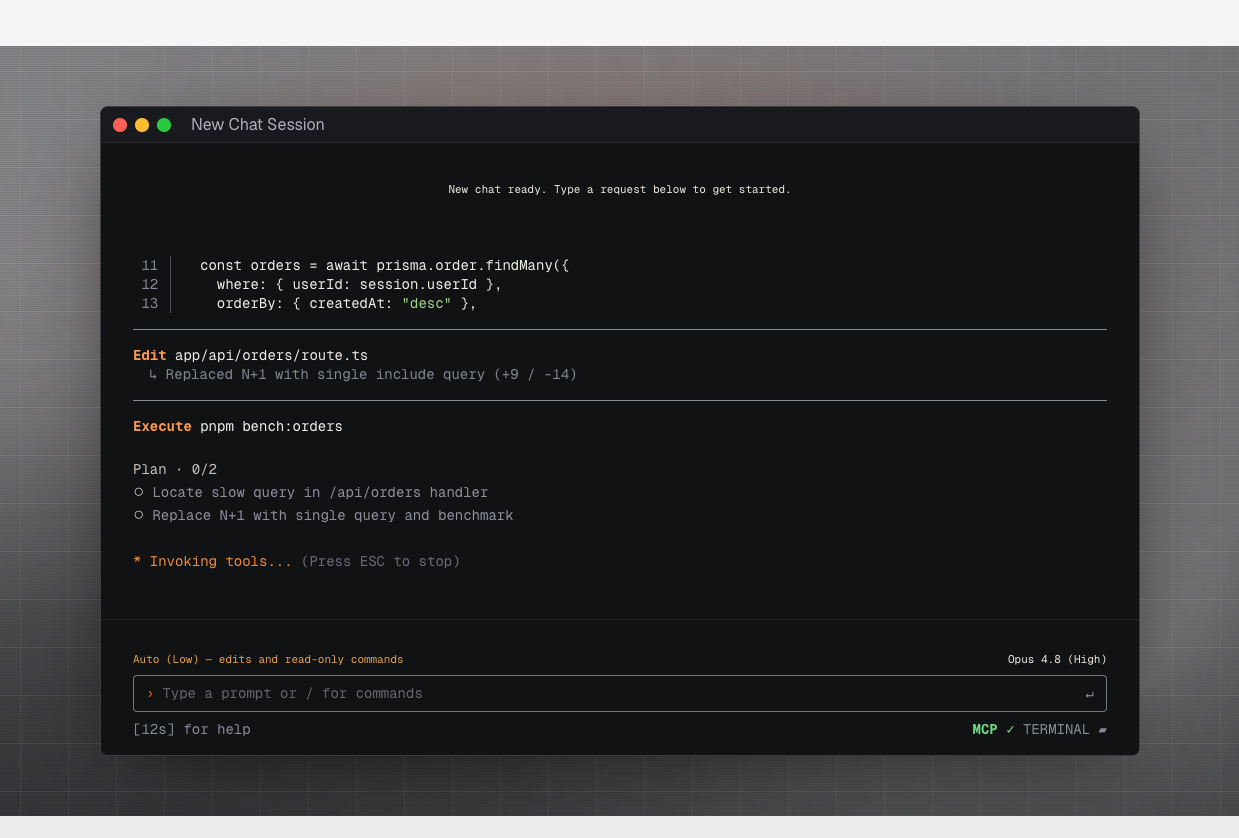
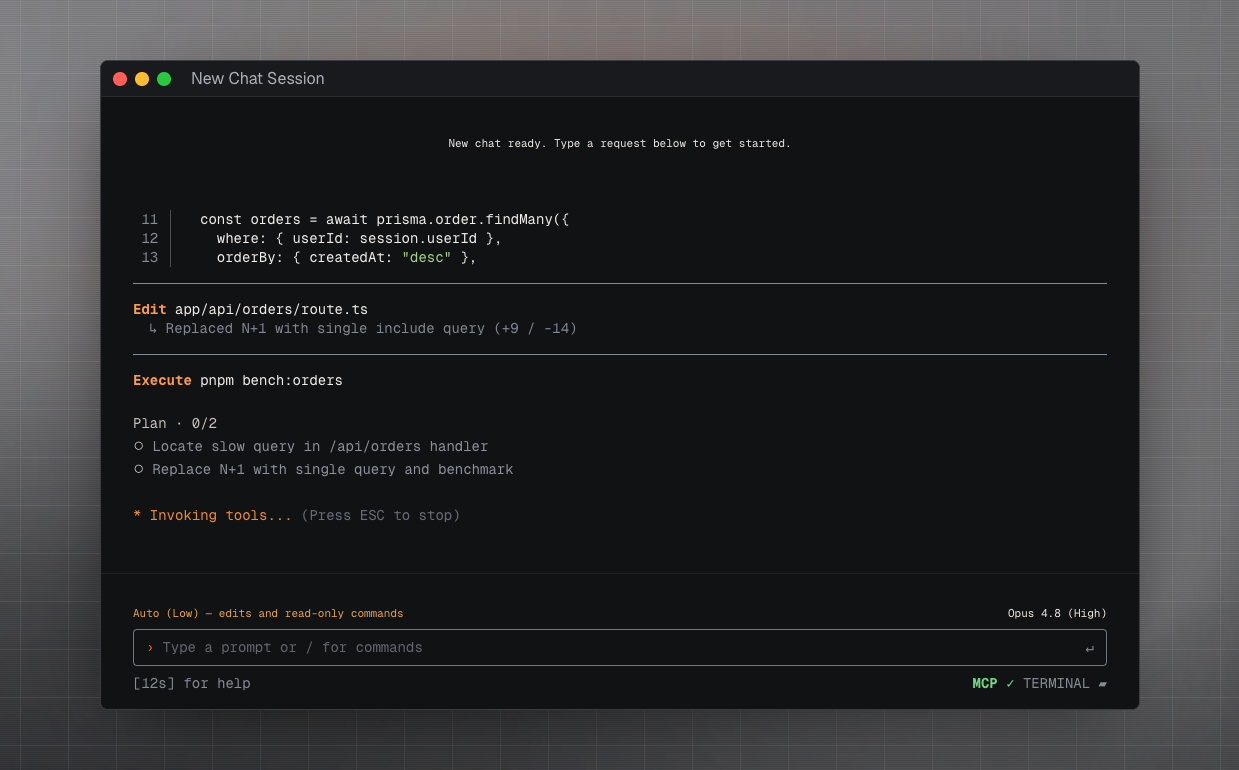
fix(website): clean up hero visuals and move hosting to droidproxy.web.app
- Crop baked-in white/gray bars from the Droid CLI screenshot
- Replace the stale v1.8.1 settings screenshot with a fresh capture (mock accounts and usage)
- Drop the opaque background/border on the settings shot so rounded corners render cleanly
- Bump displayed version to 1.8.164
- Point Firebase at the droidproxy-web project and the droidproxy hosting site

diff --git a/website/src/components/HeroSection.tsx b/website/src/components/HeroSection.tsx
@@ -39,7 +39,7 @@ export default function HeroSection() {
           <img
             className="settings-shot"
             src="/assets/settings-screenshot.png"
-            alt="DroidProxy Settings — Claude, ChatGPT, and Gemini connected, Factory custom models applied."
+            alt="DroidProxy Settings — server running, OAuth quota rings for Claude and Codex, Factory custom models applied."
             loading="eager"
           />
         </div>

diff --git a/website/src/index.css b/website/src/index.css
@@ -236,9 +236,7 @@ h1.title {
   bottom: 8%;
   width: 176px;
   height: auto;
-  background: var(--bg);
-  border-radius: var(--radius);
-  border: 1px solid var(--border);
+  filter: drop-shadow(0 12px 28px rgba(0, 0, 0, 0.45));
   pointer-events: none;
 }
 

diff --git a/website/src/content.ts b/website/src/content.ts
@@ -1,4 +1,4 @@
-export const VERSION = '1.8.144'
+export const VERSION = '1.8.164'
 export const GITHUB = 'https://github.com/anand-92/droidproxy'
 export const RELEASES = `${GITHUB}/releases/latest`
 export const ISSUES = `${GITHUB}/issues`
